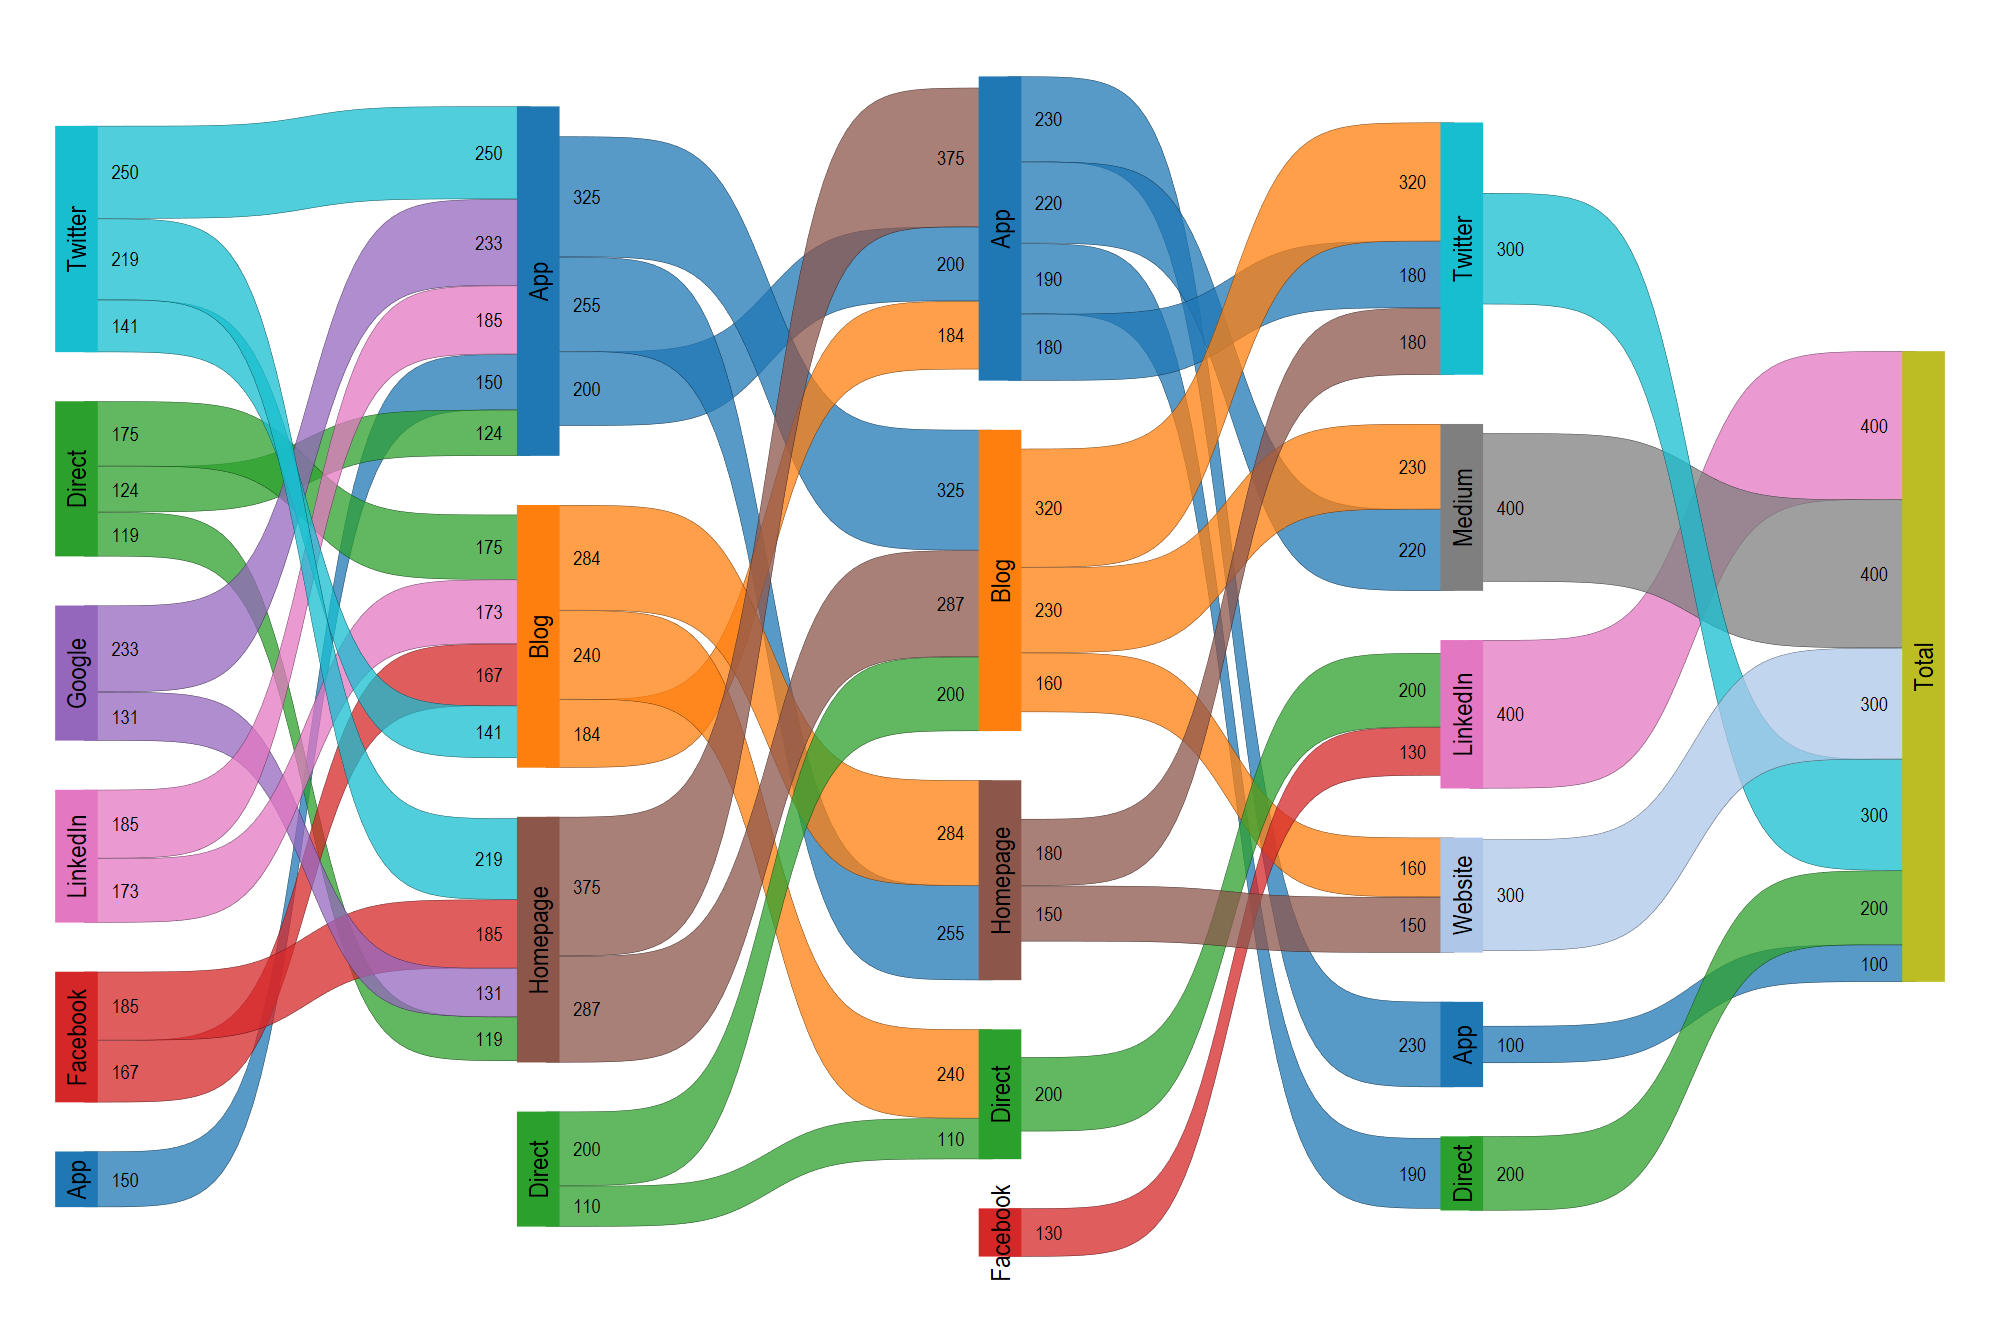
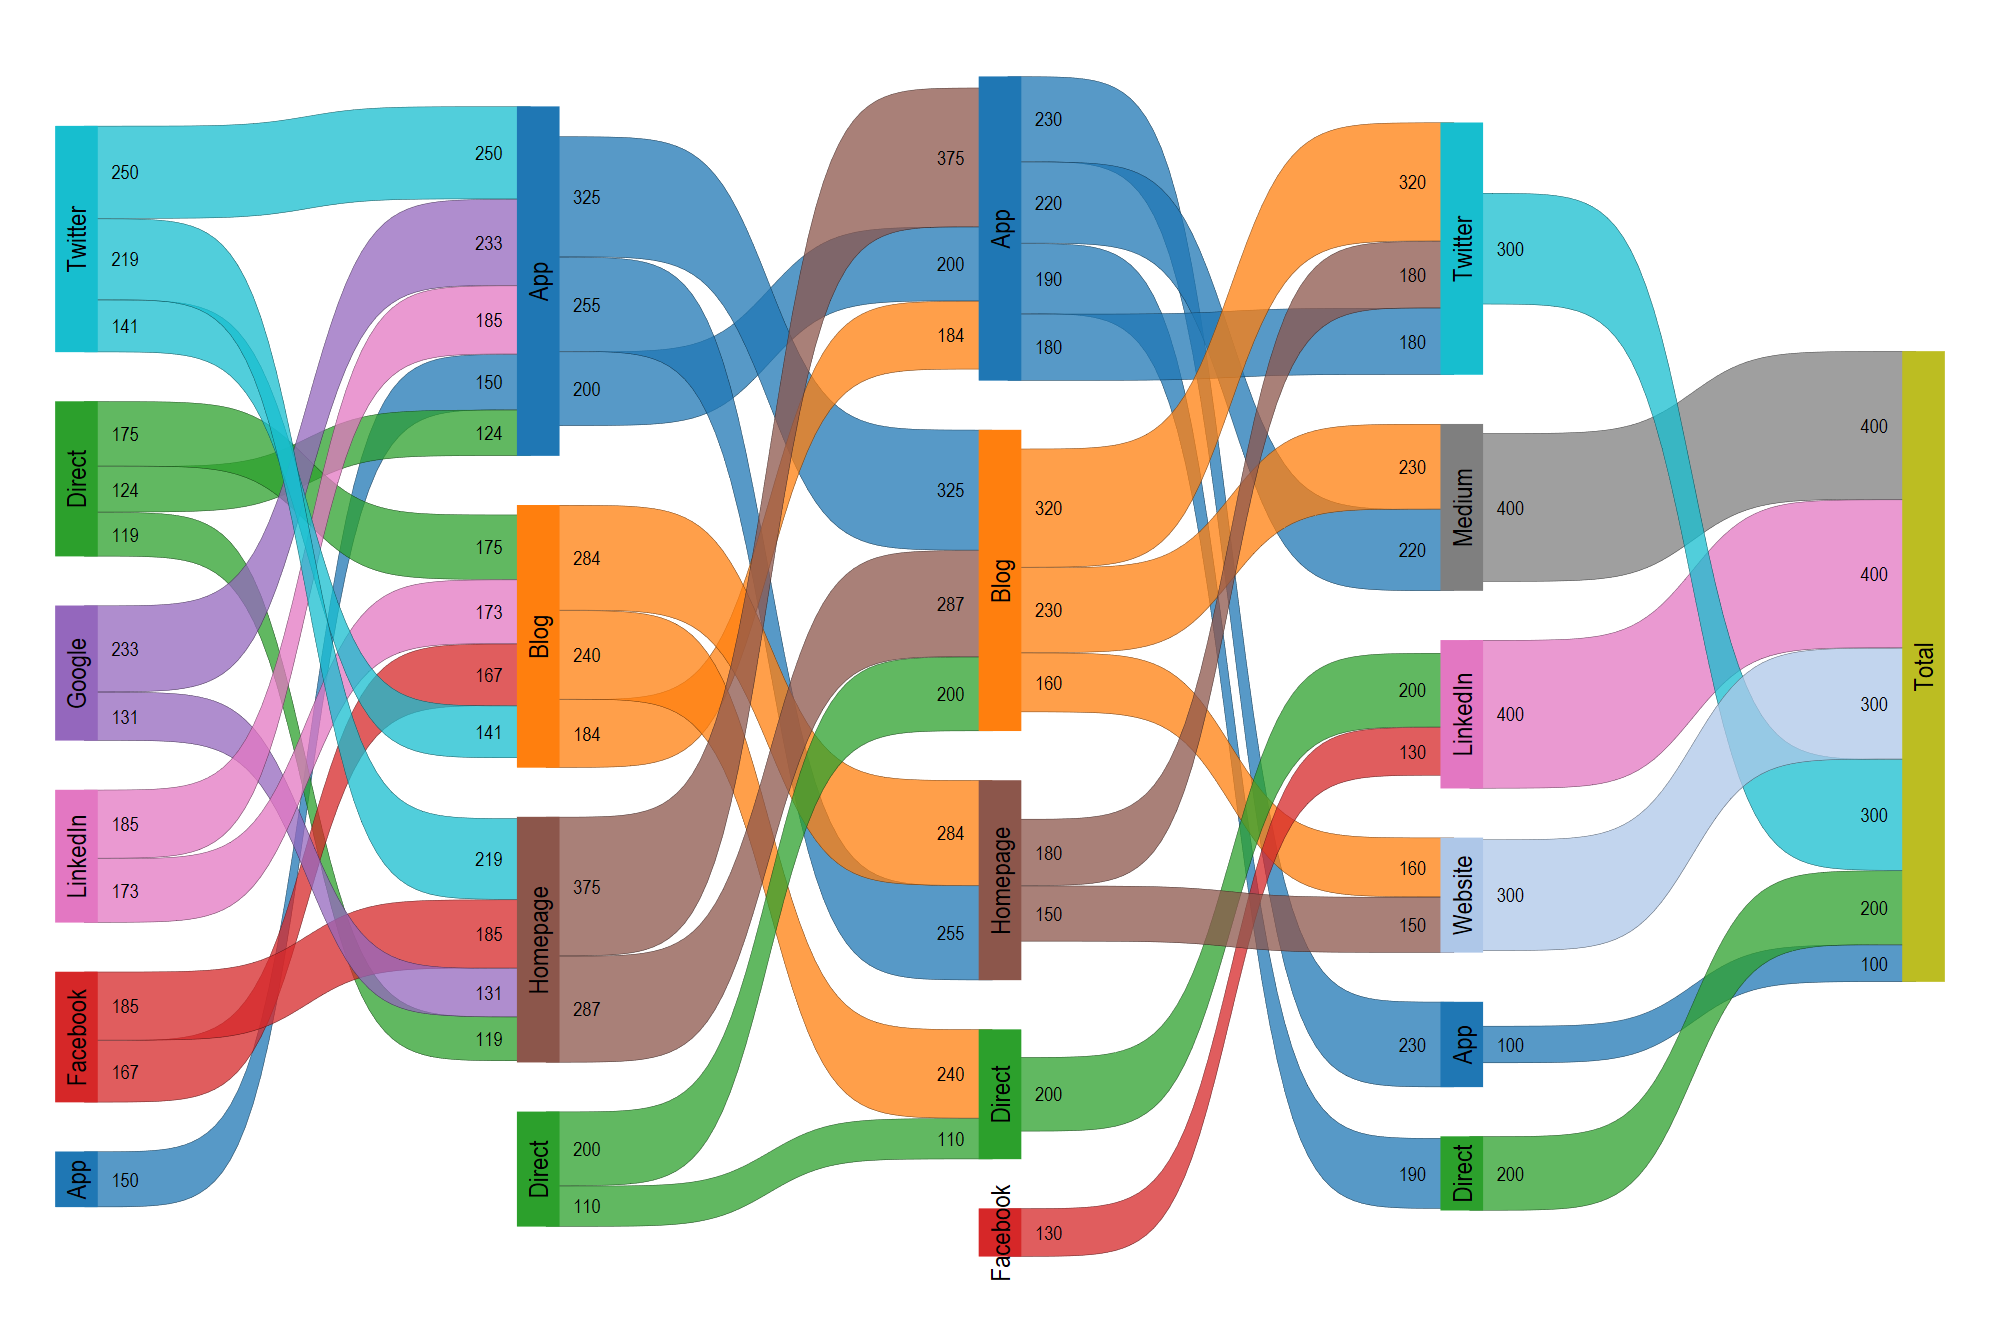
bump to v1.73

Changed region(s): [[0.806, 0.2461, 0.961, 0.5844], [0.558, 0.1538, 0.744, 0.5844]]

diff --git a/README.md b/README.md
@@ -9,8 +9,8 @@
 
 ---
 
-# sankey v1.72
-(12 Feb 2024)
+# sankey v1.73
+(16 Mar 2024)
 
 This package allows users to draw Sankey plots in Stata. It is based on the [Sankey Guide](https://medium.com/the-stata-guide/stata-graphs-sankey-diagram-ecddd112aca1) published on [the Stata Guide](https://medium.com/the-stata-guide) on Medium on October 2021.
 
@@ -25,7 +25,7 @@ SSC (**v1.71**):
 ssc install sankey, replace
 ```
 
-GitHub (**v1.72**):
+GitHub (**v1.73**):
 
 ```
 net install sankey, from("https://raw.githubusercontent.com/asjadnaqvi/stata-sankey/main/installation/") replace
@@ -63,7 +63,6 @@ graph set window fontface "Arial Narrow"
 The syntax for the latest version is as follows:
 
 ```stata
-
 sankey value [if] [in], from(var) to(var) 
             [ by(var) palette(str) colorby(layer|level) colorvar(var) stock colorvarmiss(str) colorboxmiss(str)
               smooth(1-8) gap(num) recenter(mid|bot|top) ctitles(list) ctgap(num) ctsize(num) ctposition(bot|top) 
@@ -79,10 +78,10 @@ See the help file `help sankey` for details.
 The most basic use is as follows:
 
 ```
-sankey value, from(var1) to(var2) by(level)
+sankey value, from(var1) to(var2) [by(level)]
 ```
 
-where `var1` and `var2` are source and destination variables respectively against which the `value` variable is plotted. The `by()` variable defines the levels.
+where `var1` and `var2` are source and destination variables respectively against which the `value` variable is plotted. The `by()` variable defines the levels and has been made optional since v1.72. If this option is not specified, then one level is assumed.
 
 
 
@@ -426,6 +425,12 @@ Please open an [issue](https://github.com/asjadnaqvi/stata-sankey/issues) to rep
 
 
 ## Change log
+
+
+**v1.73 (16 Mar 2024)**
+- If the `from()` and `to()` variables have value labels, then the order of the value labels is respected. This allows the users to have full control of the order of the drawing of the layers through value labels (requested by Katie Naylor + others).
+- The command now throws an error if `from()` and `to()` have different format types. Both have to be either string or numeric variables. This was necessary to implement in order to implement the above change.
+- Minor code cleanups.
 
 **v1.72 (12 Feb 2024)**
 - Fixed `labprop` from wrong calculation the label sizes.
